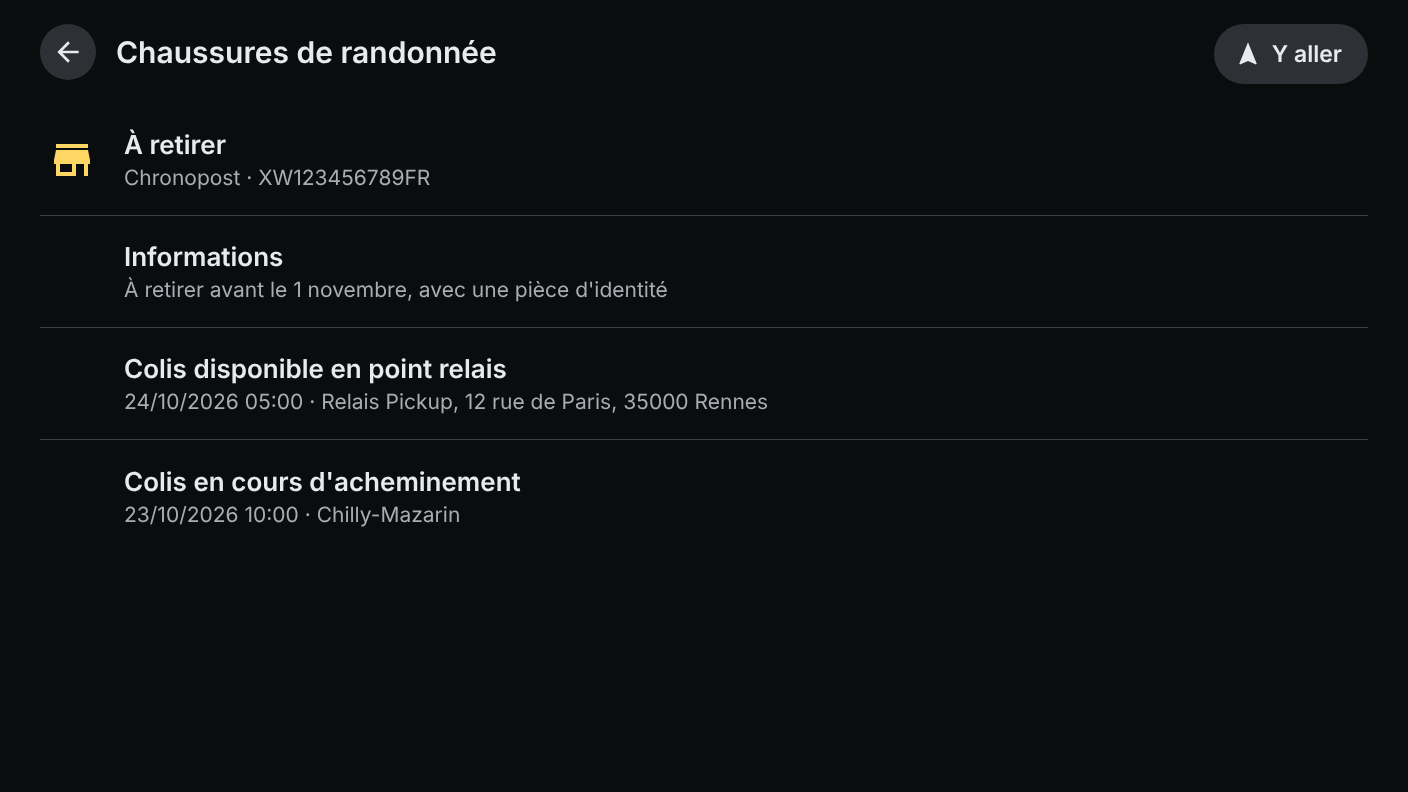
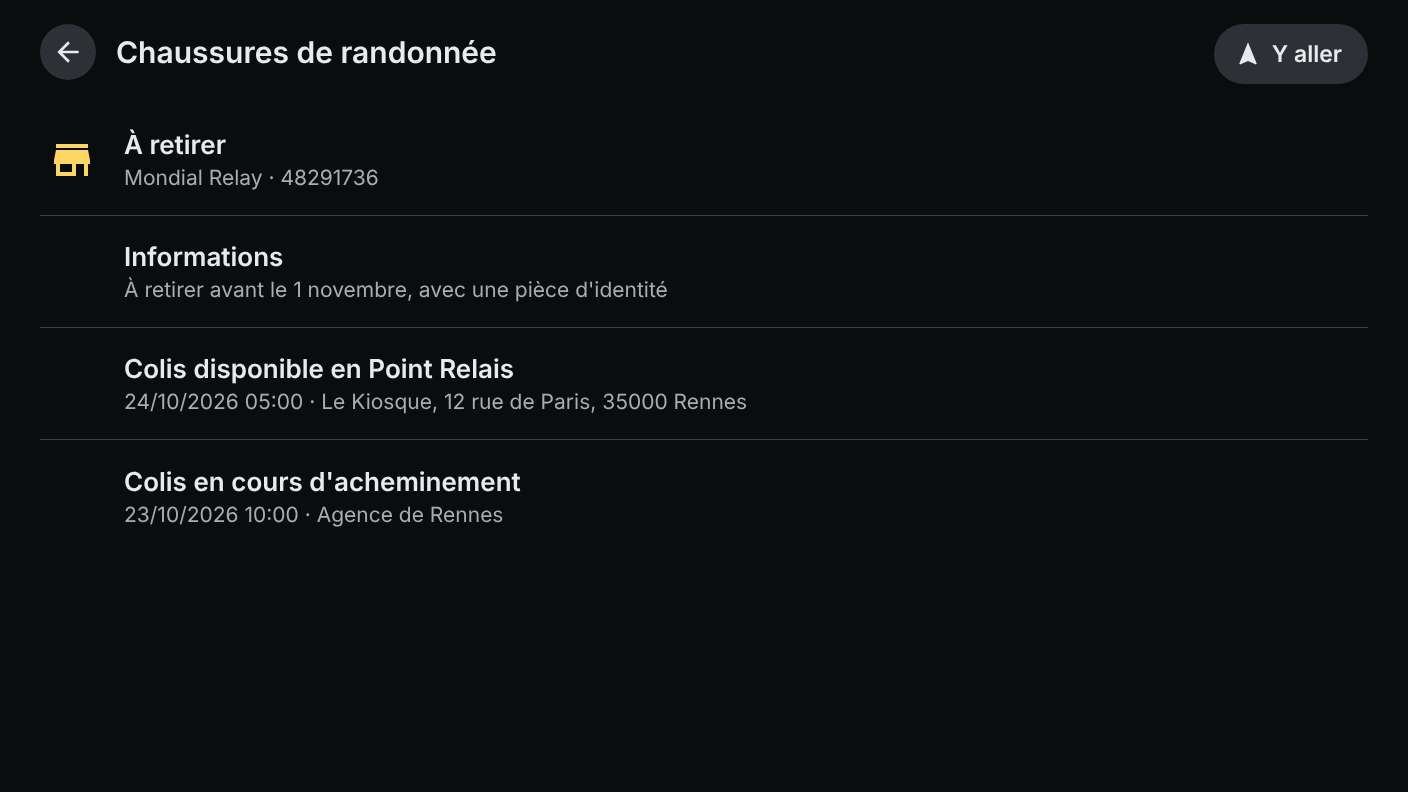
Polish what the emulator screenshots showed
Demo deliveries use carrier codes Parcel knows (La Poste, Mondial Relay,
DHL, UPS, GLS) and the carriers list loads with a new key. The last
check reads "Vérifié il y a 12 min" or "à l'instant" instead of a cut
"0 minute". The emulator run closes the keyboard left after the key and
taps the settings icon where the host draws it.

Claude-Session: https://claude.ai/code/session_01TLnDZ3taCTRZoqnMNpor54

Changed region(s): [[0.2188, 0.4545, 0.5625, 0.5152], [0.0938, 0.2121, 0.3125, 0.2424], [0.2188, 0.6364, 0.375, 0.6667]]

diff --git a/app/src/main/java/me/jstephan/parcel/data/DemoData.kt b/app/src/main/java/me/jstephan/parcel/data/DemoData.kt
@@ -34,7 +34,7 @@ internal object DemoData {
 
     private fun headphones(now: Long) = delivery(
         description = "Casque audio",
-        carrier = "colissimo",
+        carrier = "lp",
         tracking = "6A23456789012",
         status = Status.OUT_FOR_DELIVERY,
         events = listOf(
@@ -47,12 +47,12 @@ internal object DemoData {
 
     private fun shoes(now: Long) = delivery(
         description = "Chaussures de randonnée",
-        carrier = "chronopost",
-        tracking = "XW123456789FR",
+        carrier = "relay",
+        tracking = "48291736",
         status = Status.AWAITING_PICKUP,
         events = listOf(
-            event("Colis disponible en point relais", now - 5 * HOUR, "Relais Pickup, 12 rue de Paris, 35000 Rennes"),
-            event("Colis en cours d'acheminement", now - DAY, "Chilly-Mazarin")
+            event("Colis disponible en Point Relais", now - 5 * HOUR, "Le Kiosque, 12 rue de Paris, 35000 Rennes"),
+            event("Colis en cours d'acheminement", now - DAY, "Agence de Rennes")
         ),
         extra = "À retirer avant le ${day(now + 8 * DAY)}, avec une pièce d'identité"
     )
@@ -81,8 +81,8 @@ internal object DemoData {
 
     private fun cable(now: Long) = delivery(
         description = "Câble USB-C",
-        carrier = "dpd",
-        tracking = "250012345678",
+        carrier = "gls",
+        tracking = "ZK41D9PQ",
         status = Status.DELIVERED,
         events = listOf(
             event("Colis livré", now - DAY - 4 * HOUR, "Rennes"),

diff --git a/app/src/main/java/me/jstephan/parcel/ui/SettingsScreen.kt b/app/src/main/java/me/jstephan/parcel/ui/SettingsScreen.kt
@@ -48,7 +48,7 @@ class SettingsScreen(carContext: CarContext) : Screen(carContext) {
         }
         .build()
 
-    /** "Toutes les heures", then "Dernière vérification il y a 12 minutes". */
+    /** "Vérification toutes les heures", then "Vérifié il y a 12 min". */
     private fun notificationsRow(): Row {
         val toggle = Toggle.Builder { checked ->
             prefs.notifications = checked
@@ -61,7 +61,12 @@ class SettingsScreen(carContext: CarContext) : Screen(carContext) {
             .setToggle(toggle)
         val last = prefs.lastCheck
         if (last > 0) {
-            val ago = DateUtils.getRelativeTimeSpanString(last, System.currentTimeMillis(), DateUtils.MINUTE_IN_MILLIS)
+            val now = System.currentTimeMillis()
+            val ago = if (now - last < DateUtils.MINUTE_IN_MILLIS) {
+                carContext.getString(R.string.just_now)
+            } else {
+                DateUtils.getRelativeTimeSpanString(last, now, DateUtils.MINUTE_IN_MILLIS, DateUtils.FORMAT_ABBREV_RELATIVE)
+            }
             row.addText(carContext.getString(R.string.last_check, ago))
         }
         return row.build()

diff --git a/app/src/main/java/me/jstephan/parcel/data/DeliveryRepository.kt b/app/src/main/java/me/jstephan/parcel/data/DeliveryRepository.kt
@@ -55,7 +55,10 @@ class DeliveryRepository private constructor(context: Context) {
             prefs.lastCheck = 0L
             deliveriesFile.delete()
             seenFile.delete()
-            body?.let(::store)
+            body?.let {
+                store(it)
+                refreshCarriers()
+            }
         }
     }
 

diff --git a/scripts/screenshots.py b/scripts/screenshots.py
@@ -49,7 +49,7 @@ D = timedelta(days=1)
 DELIVERIES = [
     {
         "title": "Casque audio",
-        "carrier": "Colissimo",
+        "carrier": "La Poste",
         "tracking": "6A23456789012",
         "status": "out_for_delivery",
         "expected": (TODAY, None),
@@ -61,14 +61,14 @@ DELIVERIES = [
     },
     {
         "title": "Chaussures de randonnée",
-        "carrier": "Chronopost",
-        "tracking": "XW123456789FR",
+        "carrier": "Mondial Relay",
+        "tracking": "48291736",
         "status": "awaiting_pickup",
         "expected": None,
         "extra": "À retirer avant le 1 novembre, avec une pièce d'identité",
         "events": [
-            ("Colis disponible en point relais", NOW - 5 * H, "Relais Pickup, 12 rue de Paris, 35000 Rennes"),
-            ("Colis en cours d'acheminement", NOW - D, "Chilly-Mazarin"),
+            ("Colis disponible en Point Relais", NOW - 5 * H, "Le Kiosque, 12 rue de Paris, 35000 Rennes"),
+            ("Colis en cours d'acheminement", NOW - D, "Agence de Rennes"),
         ],
     },
     {
@@ -93,8 +93,8 @@ DELIVERIES = [
     },
     {
         "title": "Câble USB-C",
-        "carrier": "DPD",
-        "tracking": "250012345678",
+        "carrier": "GLS",
+        "tracking": "ZK41D9PQ",
         "status": "delivered",
         "expected": None,
         "events": [("Colis livré", NOW - D - 4 * H, "Rennes"), ("En cours de livraison", NOW - D - 7 * H, "Rennes")],
@@ -240,7 +240,7 @@ def settings_page() -> str:
         row(
             f'<div class="ic">{icon("ic_notifications", 40)}</div>',
             "Notifications",
-            ["Vérification toutes les heures", "Dernière vérification il y a 12 minutes"],
+            ["Vérification toutes les heures", "Vérifié il y a 12 min"],
             switch,
         ),
     ]
